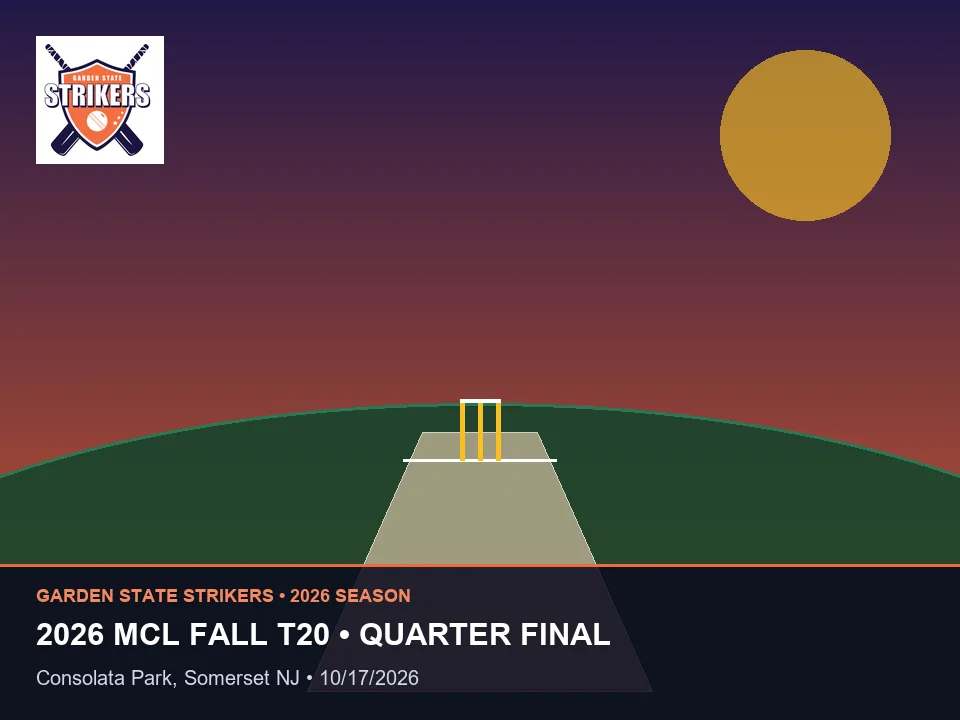
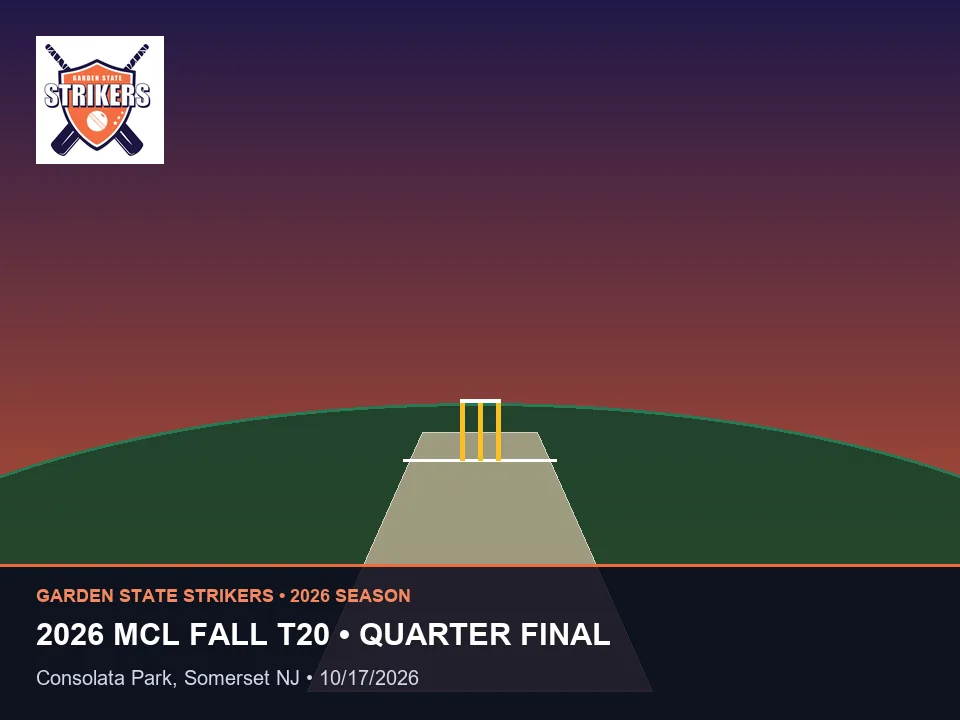
fix: remove circle motif from match recap graphics and use Network-First for JSON data

Changed region(s): [[0.75, 0.0611, 0.9375, 0.3056]]

diff --git a/sw.js b/sw.js
@@ -6,7 +6,7 @@
  * 3. Headless JSON Data (data/*.json): Stale-While-Revalidate for instant field rendering + silent background refresh
  */
 
-const CACHE_VERSION = 'gss-v2.5.0';
+const CACHE_VERSION = 'gss-v2.6.0';
 const SHELL_CACHE = `${CACHE_VERSION}-shell`;
 const STATIC_CACHE = `${CACHE_VERSION}-static`;
 const DATA_CACHE = `${CACHE_VERSION}-data`;
@@ -130,7 +130,7 @@ self.addEventListener('fetch', (event) => {
   if (url.origin !== self.location.origin) return;
 
   if (url.pathname.endsWith('.json') && url.pathname.includes('/data/')) {
-    event.respondWith(staleWhileRevalidate(request, DATA_CACHE));
+    event.respondWith(networkFirstData(request, DATA_CACHE));
     return;
   }
 
@@ -178,18 +178,15 @@ async function cacheFirstStatic(request) {
   return networkResponse;
 }
 
-async function staleWhileRevalidate(request, cacheName) {
+async function networkFirstData(request, cacheName) {
   const cache = await caches.open(cacheName);
-  const cachedResponse = await cache.match(request);
-
-  const networkPromise = fetch(request)
-    .then((networkResponse) => {
-      if (networkResponse && networkResponse.ok) {
-        cache.put(request, networkResponse.clone());
-      }
-      return networkResponse;
-    })
-    .catch(() => null);
-
-  return cachedResponse || networkPromise;
+  try {
+    const freshResponse = await fetch(request, { cache: 'no-cache' });
+    if (freshResponse && freshResponse.ok) {
+      cache.put(request, freshResponse.clone());
+    }
+    return freshResponse;
+  } catch {
+    return (await cache.match(request, { ignoreSearch: true })) || (await caches.match(request, { ignoreSearch: true }));
+  }
 }

diff --git a/js/app.js b/js/app.js
@@ -2,8 +2,8 @@
  * GARDEN STATE STRIKERS PWA — MAIN CONTROLLER, HISTORY API ROUTER & SERVICE WORKER BOOTSTRAP
  */
 
-import { renderClubView, renderHistoryView, renderSquadView, renderGalleryView, renderLegalSheet } from './renderer.js?v=2.4.0';
-import { SocialSheetController } from './social-sheet.js?v=2.4.0';
+import { renderClubView, renderHistoryView, renderSquadView, renderGalleryView, renderLegalSheet } from './renderer.js?v=2.6.0';
+import { SocialSheetController } from './social-sheet.js?v=2.6.0';
 
 const STATE = {
   club: null,
@@ -79,9 +79,9 @@ function showToast(message) {
  */
 async function loadHeadlessData() {
   const [clubRes, playersRes, galleryRes] = await Promise.all([
-    fetch('./data/club.json'),
-    fetch('./data/players.json'),
-    fetch('./data/gallery.json')
+    fetch('./data/club.json?v=2.6.0', { cache: 'no-cache' }),
+    fetch('./data/players.json?v=2.6.0', { cache: 'no-cache' }),
+    fetch('./data/gallery.json?v=2.6.0', { cache: 'no-cache' })
   ]);
 
   if (!clubRes.ok || !playersRes.ok || !galleryRes.ok) {

diff --git a/index.html b/index.html
@@ -17,8 +17,8 @@
   <link rel="apple-touch-icon" sizes="180x180" href="./assets/icons/apple-touch-icon.png" />
 
   <!-- Stylesheets -->
-  <link rel="stylesheet" href="./css/tokens.css?v=2.4.0" />
-  <link rel="stylesheet" href="./css/components.css?v=2.4.0" />
+  <link rel="stylesheet" href="./css/tokens.css?v=2.6.0" />
+  <link rel="stylesheet" href="./css/components.css?v=2.6.0" />
   <script>
     (function () {
       try {
@@ -307,6 +307,6 @@
   </div>
 
   <!-- Modular Vanilla JS Entrypoint -->
-  <script type="module" src="./js/app.js?v=2.4.0"></script>
+  <script type="module" src="./js/app.js?v=2.6.0"></script>
 </body>
 </html>

diff --git a/js/social-sheet.js b/js/social-sheet.js
@@ -3,7 +3,7 @@
  * Controls the slide-up iOS <dialog> sheet with lazy-loaded YouTube embed & native app deep links.
  */
 
-import { escapeHtml, buildPlayerAvatarHtml } from './renderer.js?v=2.4.0';
+import { escapeHtml, buildPlayerAvatarHtml } from './renderer.js?v=2.6.0';
 
 /**
  * Resolves deep links and web fallback URLs for Instagram, X, and YouTube
